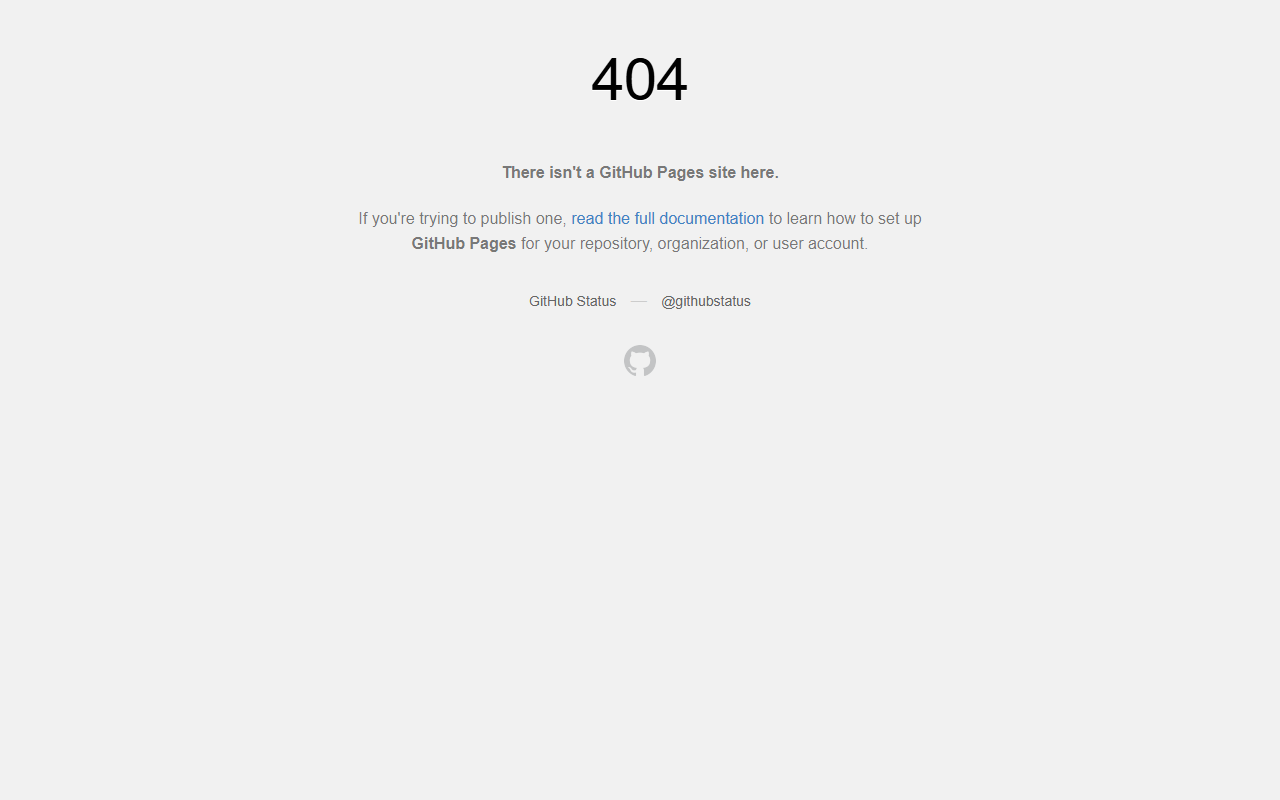
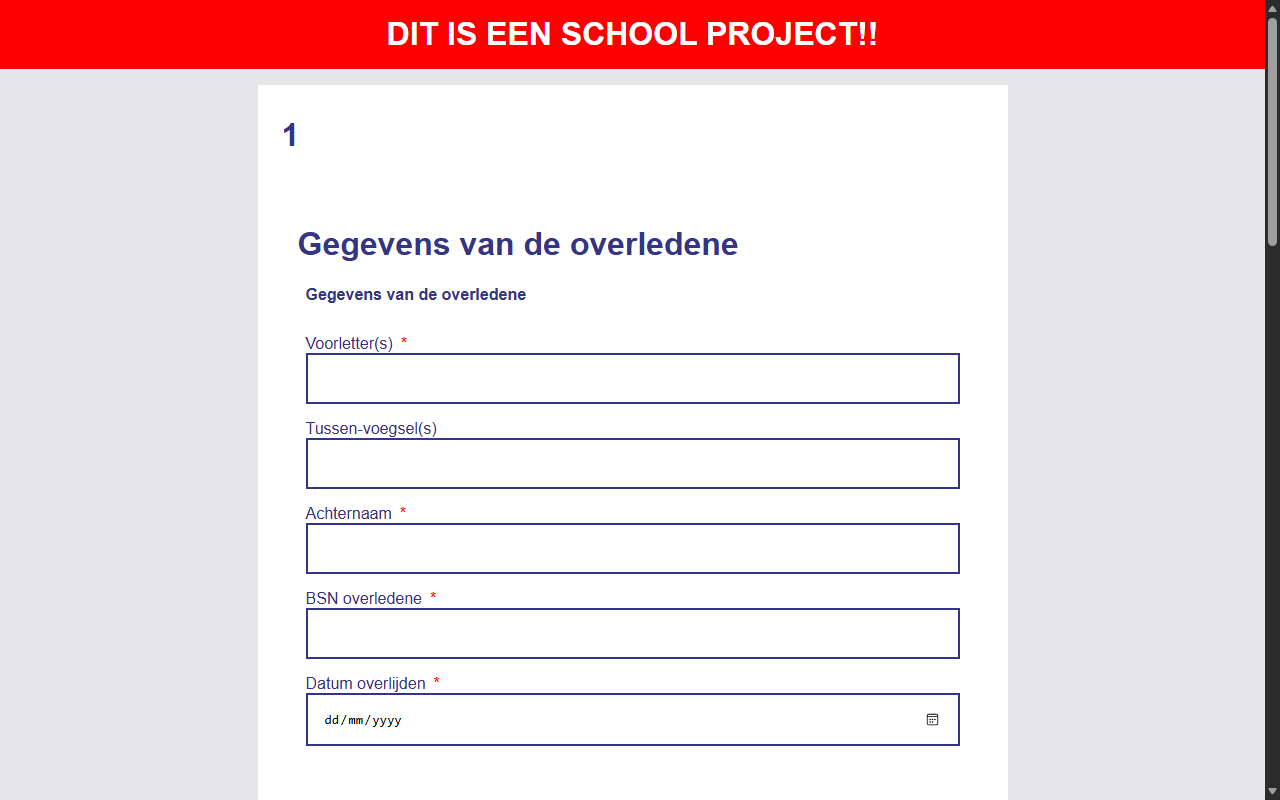
img fixed

diff --git a/script.js b/script.js
@@ -1,7 +1,40 @@
 // Portfolio Julius Gerth
+// De letter-animatie, roterende tagline en scroll-voortgangsbalk zijn pure CSS;
+// hier staat alleen wat écht JavaScript nodig heeft (muispositie en observers).
 (function () {
   // Respecteer de animatie-voorkeur van de bezoeker.
   const reducedMotion = window.matchMedia('(prefers-reduced-motion: reduce)').matches;
+
+  // ── Hero: blobs volgen de muis subtiel ───────────
+  const hero = document.querySelector('.hero');
+  const heroBg = document.querySelector('.hero-bg');
+  if (hero && heroBg && !reducedMotion) {
+    hero.addEventListener('mousemove', e => {
+      const r = hero.getBoundingClientRect();
+      const x = (e.clientX - r.left) / r.width - 0.5;
+      const y = (e.clientY - r.top) / r.height - 0.5;
+      heroBg.style.transform = `translate(${(x * 26).toFixed(1)}px, ${(y * 18).toFixed(1)}px)`;
+    });
+    hero.addEventListener('mouseleave', () => {
+      heroBg.style.transform = '';
+    });
+  }
+
+  // ── Projectkaarten: 3D-tilt met de muis ──────────
+  if (!reducedMotion && window.matchMedia('(hover: hover)').matches) {
+    document.querySelectorAll('.project-card').forEach(card => {
+      card.addEventListener('mousemove', e => {
+        const r = card.getBoundingClientRect();
+        const x = (e.clientX - r.left) / r.width - 0.5;
+        const y = (e.clientY - r.top) / r.height - 0.5;
+        card.style.transform =
+          `perspective(800px) translateY(-4px) rotateX(${(-y * 6).toFixed(2)}deg) rotateY(${(x * 6).toFixed(2)}deg)`;
+      });
+      card.addEventListener('mouseleave', () => {
+        card.style.transform = '';
+      });
+    });
+  }
 
   // ── Counter animation ────────────────────────────
   function countUp(el, target) {
@@ -41,13 +74,20 @@
   const nav = document.querySelector('nav');
   const navLinks = document.querySelectorAll('.nav-links a[href^="#"]');
   const backTop = document.getElementById('backTop');
+
+  // Voortgangsbalk is scroll-gedreven CSS; alleen bijspringen
+  // in browsers die animation-timeline nog niet kennen.
   const scrollProgress = document.getElementById('scrollProgress');
+  const progressNeedsJs = scrollProgress &&
+    !(window.CSS && CSS.supports && CSS.supports('animation-timeline: scroll()'));
 
   function onScroll() {
     nav.classList.toggle('scrolled', window.scrollY > 20);
     backTop.classList.toggle('visible', window.scrollY > 300);
-    const max = document.documentElement.scrollHeight - window.innerHeight;
-    scrollProgress.style.width = max > 0 ? (window.scrollY / max) * 100 + '%' : '0%';
+    if (progressNeedsJs) {
+      const max = document.documentElement.scrollHeight - window.innerHeight;
+      scrollProgress.style.transform = 'scaleX(' + (max > 0 ? window.scrollY / max : 0) + ')';
+    }
   }
   window.addEventListener('scroll', onScroll, { passive: true });
   onScroll();
@@ -67,39 +107,4 @@
   backTop.addEventListener('click', () =>
     window.scrollTo({ top: 0, behavior: reducedMotion ? 'auto' : 'smooth' })
   );
-
-  // ── Rotating tagline (tweetalig) ─────────────────
-  const tagline = document.getElementById('heroTagline');
-  const taglineSets = {
-    nl: [
-      'Communication & Multimedia Design student',
-      'UX-designer',
-      'Frontend-developer',
-      'Creatieve denker'
-    ],
-    en: [
-      'Communication & Multimedia Design student',
-      'UX Designer',
-      'Frontend Developer',
-      'Creative thinker'
-    ]
-  };
-  const phrasesFor = () => taglineSets[document.documentElement.lang] || taglineSets.nl;
-  let i = 0;
-  tagline.textContent = phrasesFor()[i];
-  // Bij wisselen van taal direct de huidige zin in de juiste taal tonen.
-  document.addEventListener('langchange', () => {
-    tagline.textContent = phrasesFor()[i];
-  });
-  if (!reducedMotion) {
-    setInterval(() => {
-      tagline.classList.add('switching');
-      setTimeout(() => {
-        const phrases = phrasesFor();
-        i = (i + 1) % phrases.length;
-        tagline.textContent = phrases[i];
-        tagline.classList.remove('switching');
-      }, 300);
-    }, 2800);
-  }
 })();

diff --git a/styles.css b/styles.css
@@ -83,15 +83,26 @@ html:not([lang='en']) [data-lang='en'] { display: none !important; }
 
 
 /* ── Scroll-voortgangsbalk ───────────────────────── */
+/* Scroll-gedreven CSS-animatie; script.js springt alleen bij
+   in browsers zonder animation-timeline-ondersteuning. */
 .scroll-progress {
   position: fixed;
   top: 0;
   left: 0;
-  width: 0;
+  width: 100%;
   height: 3px;
   background: linear-gradient(90deg, var(--accent), var(--accent-yellow));
   z-index: 300;
   pointer-events: none;
+  transform: scaleX(0);
+  transform-origin: left;
+  animation: progress-grow linear;
+  animation-timeline: scroll();
+}
+
+@keyframes progress-grow {
+  from { transform: scaleX(0); }
+  to   { transform: scaleX(1); }
 }
 
 /* ── Navigation ─────────────────────────────────── */
@@ -212,6 +223,7 @@ main {
   inset: 0;
   pointer-events: none;
   z-index: 0;
+  transition: transform 0.3s ease-out;
 }
 
 .blob {
@@ -297,35 +309,60 @@ main {
 }
 
 .hero-content h1 {
-  font-size: 2.5rem;
+  font-size: clamp(2.6rem, 5.5vw, 3.6rem);
   font-weight: 700;
-  line-height: 1.2;
+  line-height: 1.15;
   margin-bottom: 0.3rem;
-  background: linear-gradient(120deg, #ffffff 0%, #ffd700 50%, #ffffff 100%);
-  background-size: 200% auto;
-  -webkit-background-clip: text;
-  -webkit-text-fill-color: transparent;
-  background-clip: text;
-  animation: gradient-slide 6s ease-in-out infinite alternate;
+  color: #ffffff;
 }
 
-@keyframes gradient-slide {
-  from { background-position: 0% center; }
-  to   { background-position: 100% center; }
+/* Letter-voor-letter entrance, volledig in CSS.
+   Elke letter heeft in de HTML een --i; die stuurt de delay
+   én de kleur (wit -> goud over de hele naam). */
+.hero-content h1 .word {
+  display: inline-block;
 }
 
+.hero-content h1 .letter {
+  display: inline-block;
+  animation: letter-in 0.6s cubic-bezier(0.22, 1, 0.36, 1) both;
+  animation-delay: calc(0.2s + var(--i) * 0.045s);
+  color: color-mix(in srgb, #ffd700 calc(var(--i) * 10%), #ffffff);
+}
+
+@keyframes letter-in {
+  from { opacity: 0; transform: translateY(0.6em) rotate(6deg); }
+  to   { opacity: 1; transform: translateY(0) rotate(0); }
+}
+
+/* Roterende tagline, volledig in CSS: verticale carrousel.
+   Laatste item is een kopie van het eerste voor een naadloze loop. */
 .hero-tagline {
   font-size: 1.05rem;
   color: #ffd700;
   font-weight: 600;
   margin-bottom: 0.75rem;
-  min-height: 1.7em;
-  transition: opacity 0.3s ease, transform 0.3s ease;
+  height: 1.7em;
+  overflow: hidden;
 }
 
-.hero-tagline.switching {
-  opacity: 0;
-  transform: translateY(-6px);
+.tagline-rotor {
+  display: block;
+  animation: tagline-cycle 11.2s infinite;
+}
+
+.tagline-item {
+  display: block;
+  height: 1.7em;
+  line-height: 1.7;
+}
+
+@keyframes tagline-cycle {
+  0%, 21%    { transform: translateY(0); }
+  25%, 46%   { transform: translateY(-1.7em); }
+  50%, 71%   { transform: translateY(-3.4em); }
+  75%, 96%   { transform: translateY(-5.1em); }
+  100%       { transform: translateY(-6.8em); }
 }
 
 .hero-desc {

diff --git a/index.html b/index.html
@@ -54,9 +54,20 @@
             height="360"
           />
           <div class="hero-content">
-            <h1>Julius Gerth</h1>
-            <p class="hero-tagline" id="heroTagline">
-              Communication &amp; Multimedia Design student
+            <h1 aria-label="Julius Gerth">
+              <span aria-hidden="true">
+                <span class="word"><span class="letter" style="--i: 0">J</span><span class="letter" style="--i: 1">u</span><span class="letter" style="--i: 2">l</span><span class="letter" style="--i: 3">i</span><span class="letter" style="--i: 4">u</span><span class="letter" style="--i: 5">s</span></span>
+                <span class="word"><span class="letter" style="--i: 6">G</span><span class="letter" style="--i: 7">e</span><span class="letter" style="--i: 8">r</span><span class="letter" style="--i: 9">t</span><span class="letter" style="--i: 10">h</span></span>
+              </span>
+            </h1>
+            <p class="hero-tagline">
+              <span class="tagline-rotor">
+                <span class="tagline-item">Communication &amp; Multimedia Design student</span>
+                <span class="tagline-item"><span data-lang="nl">UX-designer</span><span data-lang="en">UX Designer</span></span>
+                <span class="tagline-item"><span data-lang="nl">Frontend-developer</span><span data-lang="en">Frontend Developer</span></span>
+                <span class="tagline-item"><span data-lang="nl">Creatieve denker</span><span data-lang="en">Creative thinker</span></span>
+                <span class="tagline-item" aria-hidden="true">Communication &amp; Multimedia Design student</span>
+              </span>
             </p>
             <p class="hero-desc" data-lang="nl">
               Op deze site vind je meer over mij en de projecten die ik heb
@@ -108,8 +119,7 @@
           strategiegames, juist omdat ze me dwingen om in de meest stressvolle
           situaties helder te blijven denken. Dat is een vaardigheid die
           tijdens deadlines en hackathons verrassend goed van pas komt. Verder
-          fotografeer ik graag en kijk ik veel films — die liefde vind je
-          terug in mijn <a href="movie_matching.html">Movie Matching-project</a>.
+          fotografeer ik graag en kijk ik veel films.
         </p>
         <p data-lang="en">
           Outside of school you'll find me on the rugby pitch or behind the
@@ -231,8 +241,8 @@
           <li class="project-card" data-reveal>
             <a href="api.html" class="project-card-link">
               <img
-                src="img/apisolar.png"
-                alt="Screenshot van de 3D solar system-website"
+                src="img/apisolar.jpg"
+                alt="De aarde en de zon in de 3D solar system-website"
                 width="1280"
                 height="800"
                 loading="lazy"
@@ -304,6 +314,7 @@
           target="_blank"
           >LinkedIn</a
         >
+        <a href="https://github.com/JuliusGerth" target="_blank">GitHub</a>
       </div>
     </footer>
     <button class="back-top" id="backTop" aria-label="Terug naar boven / Back to top">

diff --git a/api.html b/api.html
@@ -17,7 +17,7 @@
       content="Een interactieve 3D-website gebouwd met Three.js en een externe API."
     />
     <meta property="og:url" content="https://juliusgerth.github.io/portfolio_julius_Gerth/api.html" />
-    <meta property="og:image" content="https://juliusgerth.github.io/portfolio_julius_Gerth/img/apisolar.png" />
+    <meta property="og:image" content="https://juliusgerth.github.io/portfolio_julius_Gerth/img/apisolar.jpg" />
     <link rel="stylesheet" href="styles.css" />
     <script src="lang.js"></script>
   </head>
@@ -44,7 +44,7 @@
         <picture>
           <source srcset="img/solar-demo.gif" media="(prefers-reduced-motion: no-preference)" />
           <img
-            src="img/apisolar.png"
+            src="img/apisolar.jpg"
             alt="Demo van de Solar System-website: de camera vliegt van het zonnestelsel-overzicht naar een roterende aarde"
             width="1280"
             height="800"
@@ -85,6 +85,7 @@
       <div class="footer-links">
         <a href="mailto:julger04@gmail.com">julger04@gmail.com</a>
         <a href="https://www.linkedin.com/in/julius-gerth-81500b1b6/" target="_blank">LinkedIn</a>
+        <a href="https://github.com/JuliusGerth" target="_blank">GitHub</a>
       </div>
     </footer>
   </body>

diff --git a/movie_matching.html b/movie_matching.html
@@ -123,6 +123,7 @@
       <div class="footer-links">
         <a href="mailto:julger04@gmail.com">julger04@gmail.com</a>
         <a href="https://www.linkedin.com/in/julius-gerth-81500b1b6/" target="_blank">LinkedIn</a>
+        <a href="https://github.com/JuliusGerth" target="_blank">GitHub</a>
       </div>
     </footer>
   </body>

diff --git a/workshop.html b/workshop.html
@@ -155,6 +155,7 @@
       <div class="footer-links">
         <a href="mailto:julger04@gmail.com">julger04@gmail.com</a>
         <a href="https://www.linkedin.com/in/julius-gerth-81500b1b6/" target="_blank">LinkedIn</a>
+        <a href="https://github.com/JuliusGerth" target="_blank">GitHub</a>
       </div>
     </footer>
   </body>

diff --git a/beyond.html b/beyond.html
@@ -98,6 +98,7 @@
       <div class="footer-links">
         <a href="mailto:julger04@gmail.com">julger04@gmail.com</a>
         <a href="https://www.linkedin.com/in/julius-gerth-81500b1b6/" target="_blank">LinkedIn</a>
+        <a href="https://github.com/JuliusGerth" target="_blank">GitHub</a>
       </div>
     </footer>
   </body>

diff --git a/designsystem.html b/designsystem.html
@@ -80,6 +80,7 @@
       <div class="footer-links">
         <a href="mailto:julger04@gmail.com">julger04@gmail.com</a>
         <a href="https://www.linkedin.com/in/julius-gerth-81500b1b6/" target="_blank">LinkedIn</a>
+        <a href="https://github.com/JuliusGerth" target="_blank">GitHub</a>
       </div>
     </footer>
   </body>

diff --git a/hackathon.html b/hackathon.html
@@ -85,6 +85,7 @@
       <div class="footer-links">
         <a href="mailto:julger04@gmail.com">julger04@gmail.com</a>
         <a href="https://www.linkedin.com/in/julius-gerth-81500b1b6/" target="_blank">LinkedIn</a>
+        <a href="https://github.com/JuliusGerth" target="_blank">GitHub</a>
       </div>
     </footer>
   </body>

diff --git a/browser_tech.html b/browser_tech.html
@@ -128,6 +128,7 @@
           target="_blank"
           >LinkedIn</a
         >
+        <a href="https://github.com/JuliusGerth" target="_blank">GitHub</a>
       </div>
     </footer>
   </body>
